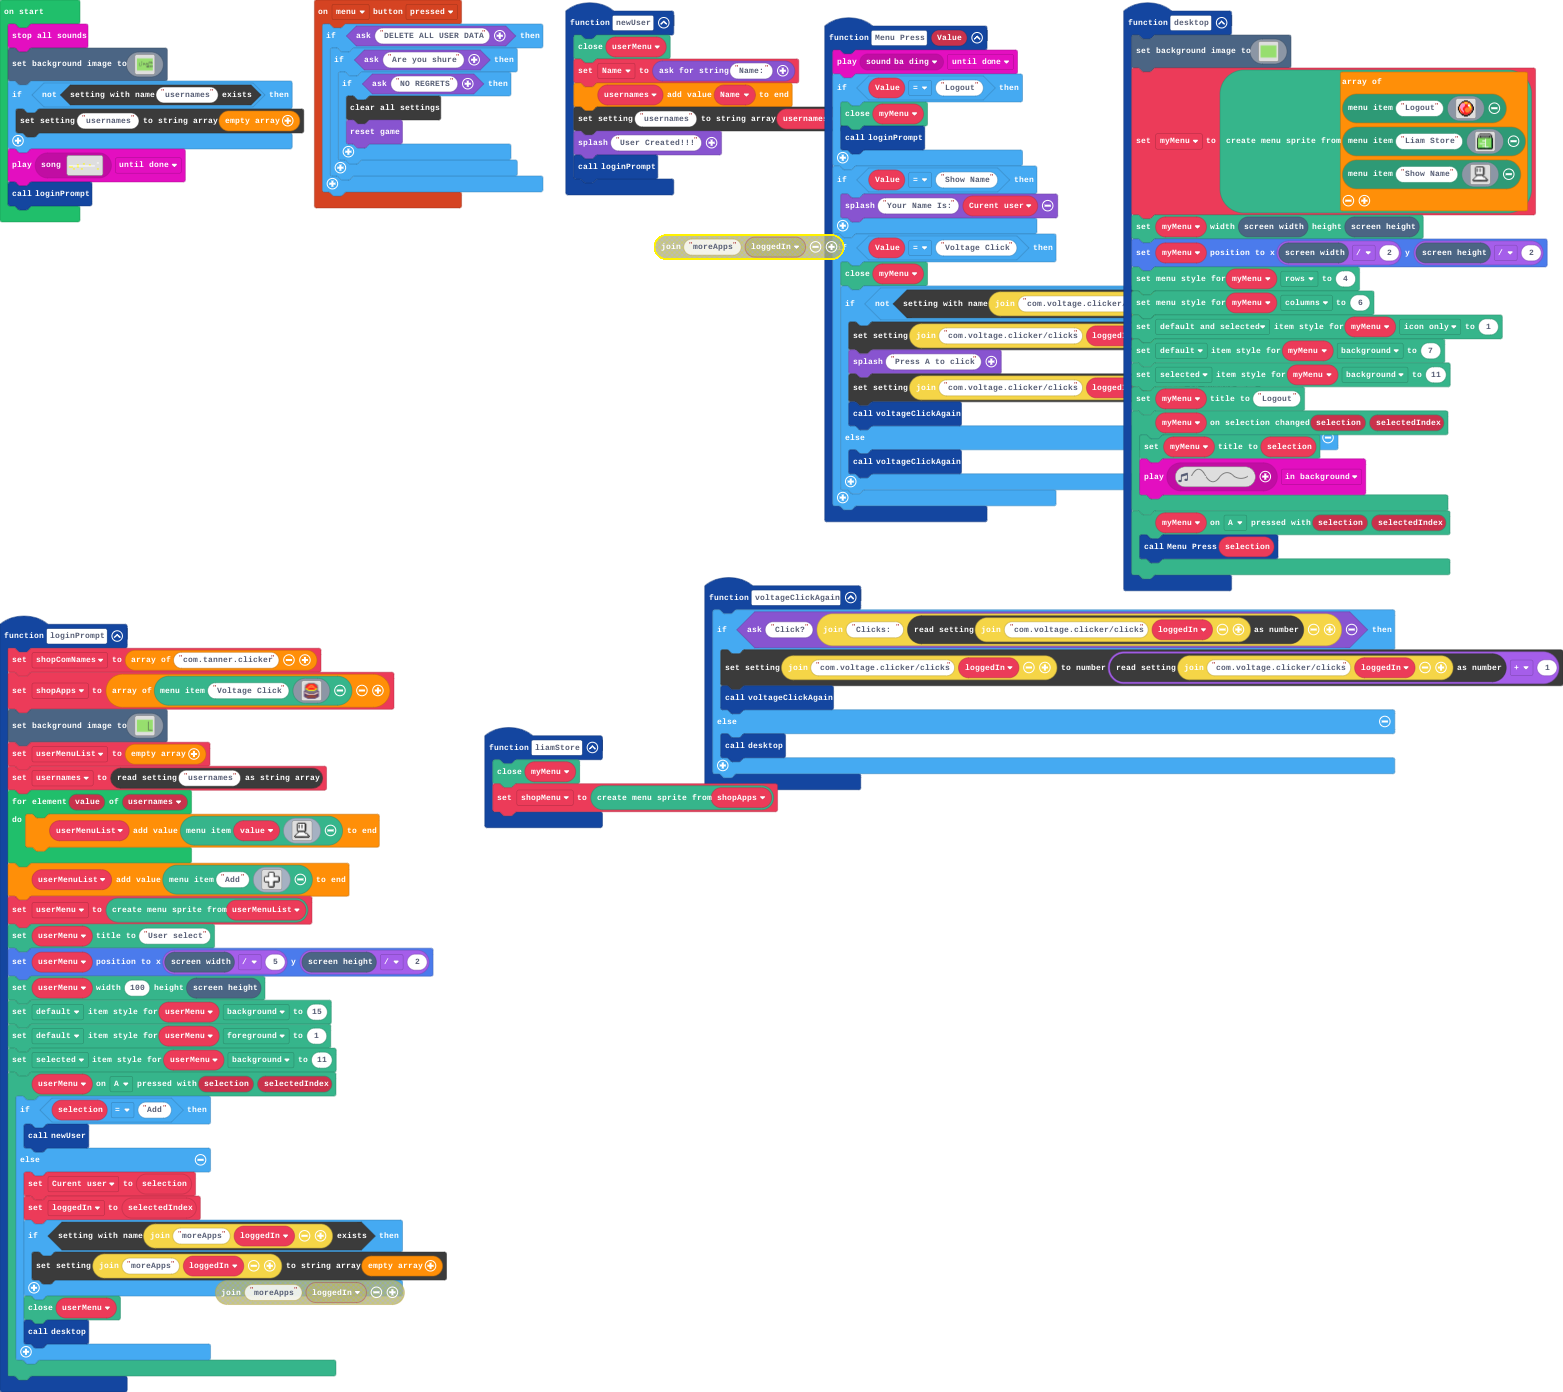
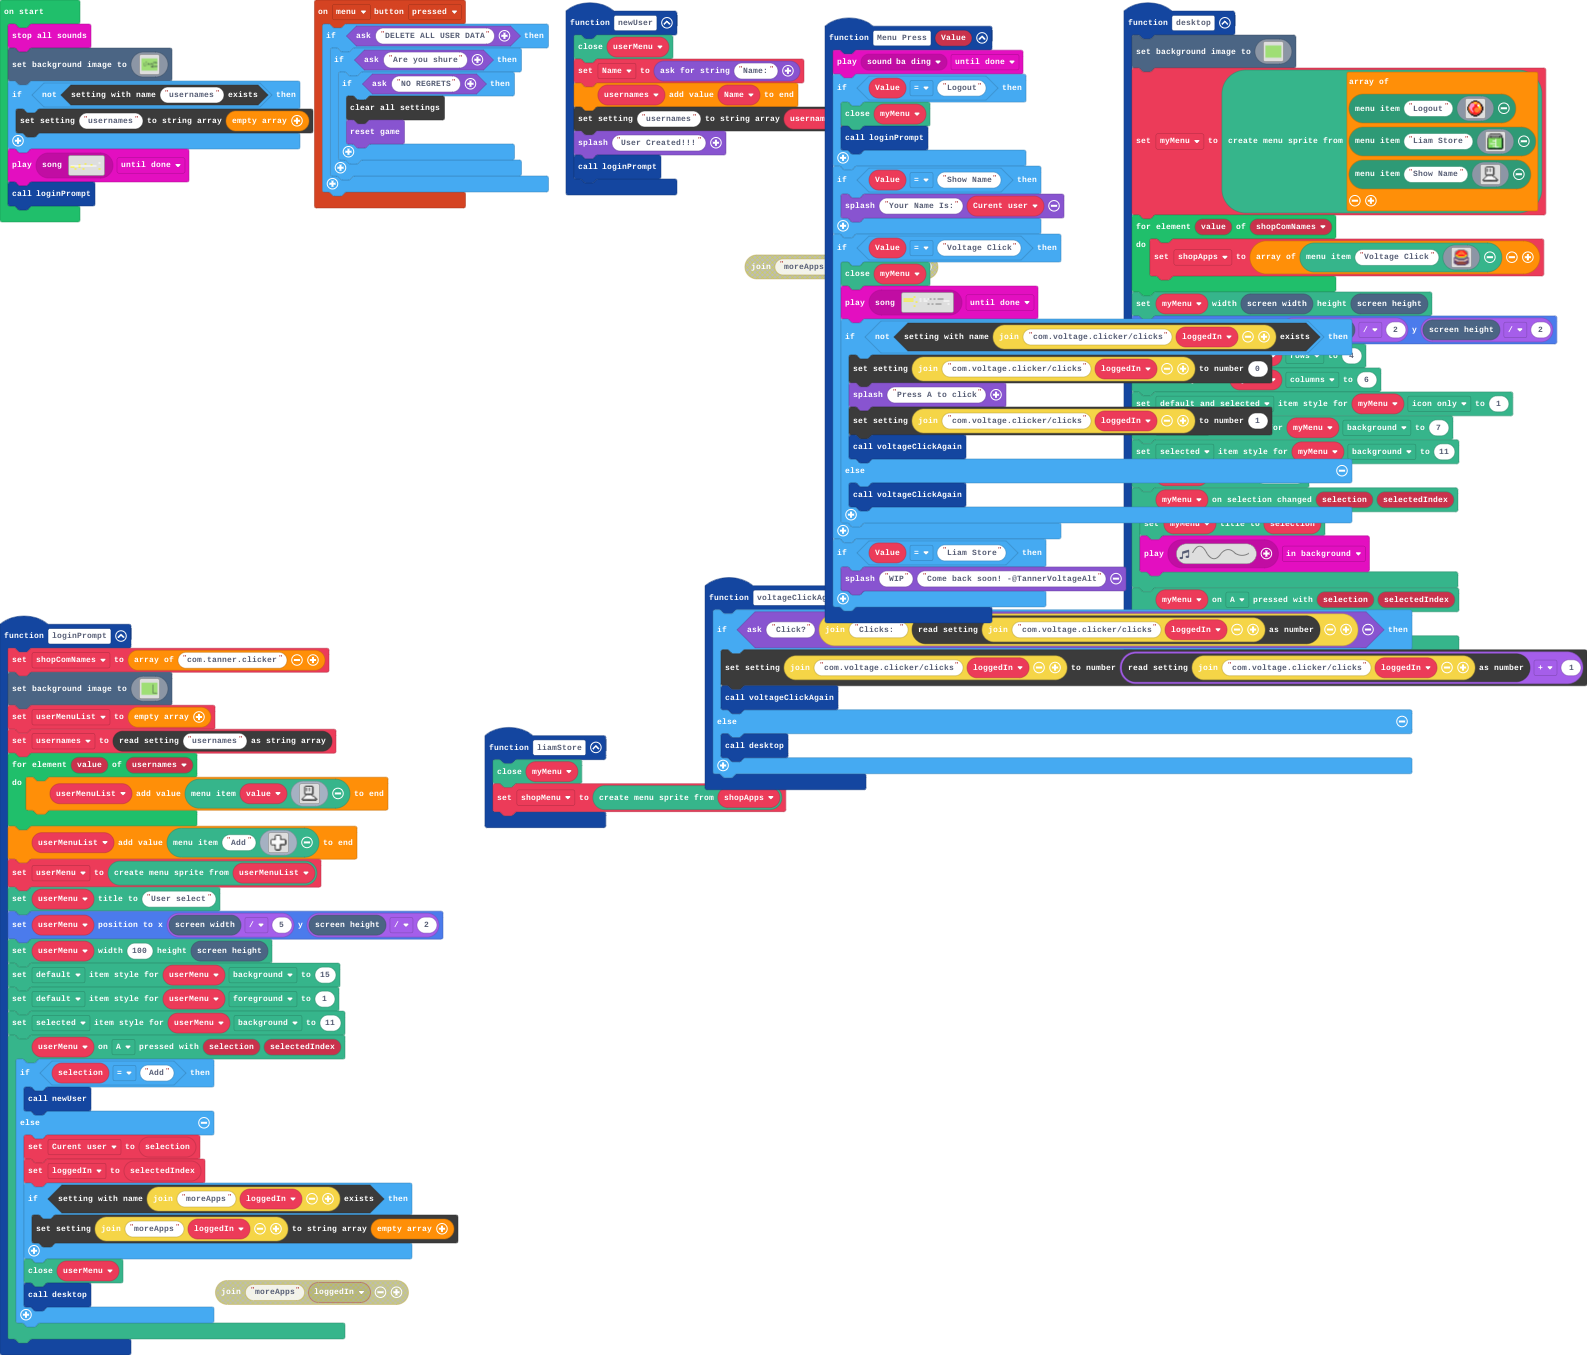
Update main.blocks, main.ts, images.g.jres, images.g.ts

Changed region(s): [[0.0, 0.0, 1.0, 0.6199], [0.0, 0.4339, 0.3071, 0.9919]]

diff --git a/main.ts b/main.ts
@@ -1,23 +1,5 @@
 function loginPrompt () {
     shopComNames = ["com.tanner.clicker"]
-    shopApps = [miniMenu.createMenuItem("Voltage Click", img`
-        . . . . 6 6 6 6 6 6 6 . . . . 
-        . . 6 6 2 2 2 2 2 2 2 6 6 . . 
-        . 6 6 2 2 2 4 4 4 2 2 2 6 6 . 
-        . 6 2 2 2 4 4 2 4 4 2 2 2 6 . 
-        . c 2 2 4 4 4 4 4 4 4 2 2 c . 
-        . c 5 2 4 2 2 2 2 2 4 2 5 c . 
-        . c 5 5 2 2 2 2 2 2 2 5 5 c . 
-        . c 6 6 5 5 5 5 5 5 5 6 6 c . 
-        c c 6 6 6 6 6 6 6 6 6 6 6 c c 
-        c d c c 6 6 6 6 6 6 6 c c d c 
-        c d d d c c c c c c c d d d c 
-        c c e d d d d d d d d d e c c 
-        c c c c c e e e e e c c c c c 
-        c c e e e e e e e e e e e c c 
-        . c c e e e e e e e e e c c . 
-        . . . c c c c c c c c c . . . 
-        `)]
     scene.setBackgroundImage(assets.image`Background`)
     userMenuList = []
     usernames = blockSettings.readStringArray("usernames")
@@ -127,6 +109,26 @@ function desktop () {
         . . . . . . . . . . . . . . . . . 
         `)
     ])
+    for (let value of shopComNames) {
+        shopApps = [miniMenu.createMenuItem("Voltage Click", img`
+            . . . . 6 6 6 6 6 6 6 . . . . 
+            . . 6 6 2 2 2 2 2 2 2 6 6 . . 
+            . 6 6 2 2 2 4 4 4 2 2 2 6 6 . 
+            . 6 2 2 2 4 4 2 4 4 2 2 2 6 . 
+            . c 2 2 4 4 4 4 4 4 4 2 2 c . 
+            . c 5 2 4 2 2 2 2 2 4 2 5 c . 
+            . c 5 5 2 2 2 2 2 2 2 5 5 c . 
+            . c 6 6 5 5 5 5 5 5 5 6 6 c . 
+            c c 6 6 6 6 6 6 6 6 6 6 6 c c 
+            c d c c 6 6 6 6 6 6 6 c c d c 
+            c d d d c c c c c c c d d d c 
+            c c e d d d d d d d d d e c c 
+            c c c c c e e e e e c c c c c 
+            c c e e e e e e e e e e e c c 
+            . c c e e e e e e e e e c c . 
+            . . . c c c c c c c c c . . . 
+            `)]
+    }
     myMenu.setDimensions(scene.screenWidth(), scene.screenHeight())
     myMenu.setPosition(scene.screenWidth() / 2, scene.screenHeight() / 2)
     myMenu.setMenuStyleProperty(miniMenu.MenuStyleProperty.Rows, 4)
@@ -184,6 +186,7 @@ function Menu_Press (Value: string) {
     }
     if (Value == "Voltage Click") {
         myMenu.close()
+        music.play(music.createSong(assets.song`voltageClickTheme`), music.PlaybackMode.UntilDone)
         if (!(blockSettings.exists("com.voltage.clicker/clicks" + loggedIn))) {
             blockSettings.writeNumber("com.voltage.clicker/clicks" + loggedIn, 0)
             game.splash("Press A to click")
@@ -193,16 +196,19 @@ function Menu_Press (Value: string) {
             voltageClickAgain()
         }
     }
+    if (Value == "Liam Store") {
+        game.splash("WIP", "Come back soon! -@TannerVoltageAlt")
+    }
 }
 let shopMenu: miniMenu.MenuSprite = null
 let Name = ""
+let shopApps: miniMenu.MenuItem[] = []
 let myMenu: miniMenu.MenuSprite = null
 let loggedIn = 0
 let Curent_user = ""
 let userMenu: miniMenu.MenuSprite = null
 let usernames: string[] = []
 let userMenuList: miniMenu.MenuItem[] = []
-let shopApps: miniMenu.MenuItem[] = []
 let shopComNames: string[] = []
 music.stopAllSounds()
 scene.setBackgroundImage(img`

diff --git a/images.g.ts b/images.g.ts
@@ -714,7 +714,8 @@ f 4 2 3 3 2 2 4 4 4 4 4 4 4 e f
 
     helpers._registerFactory("song", function(name: string) {
         switch(helpers.stringTrim(name)) {
-
+            case "song1":
[1 lines of base64/hex data omitted]
         }
         return null;
     })
